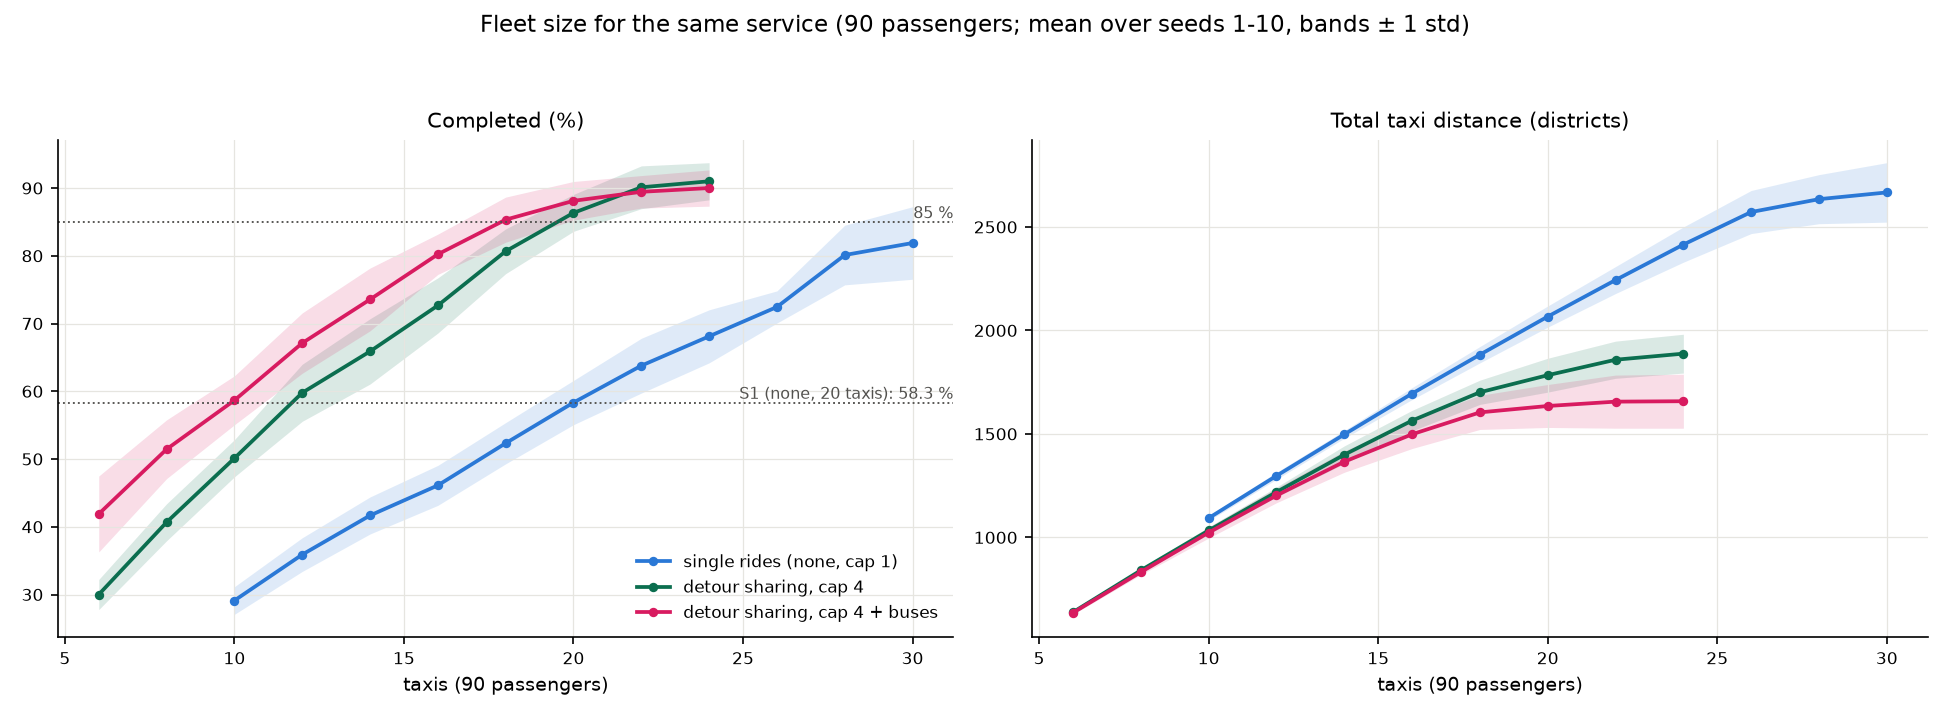
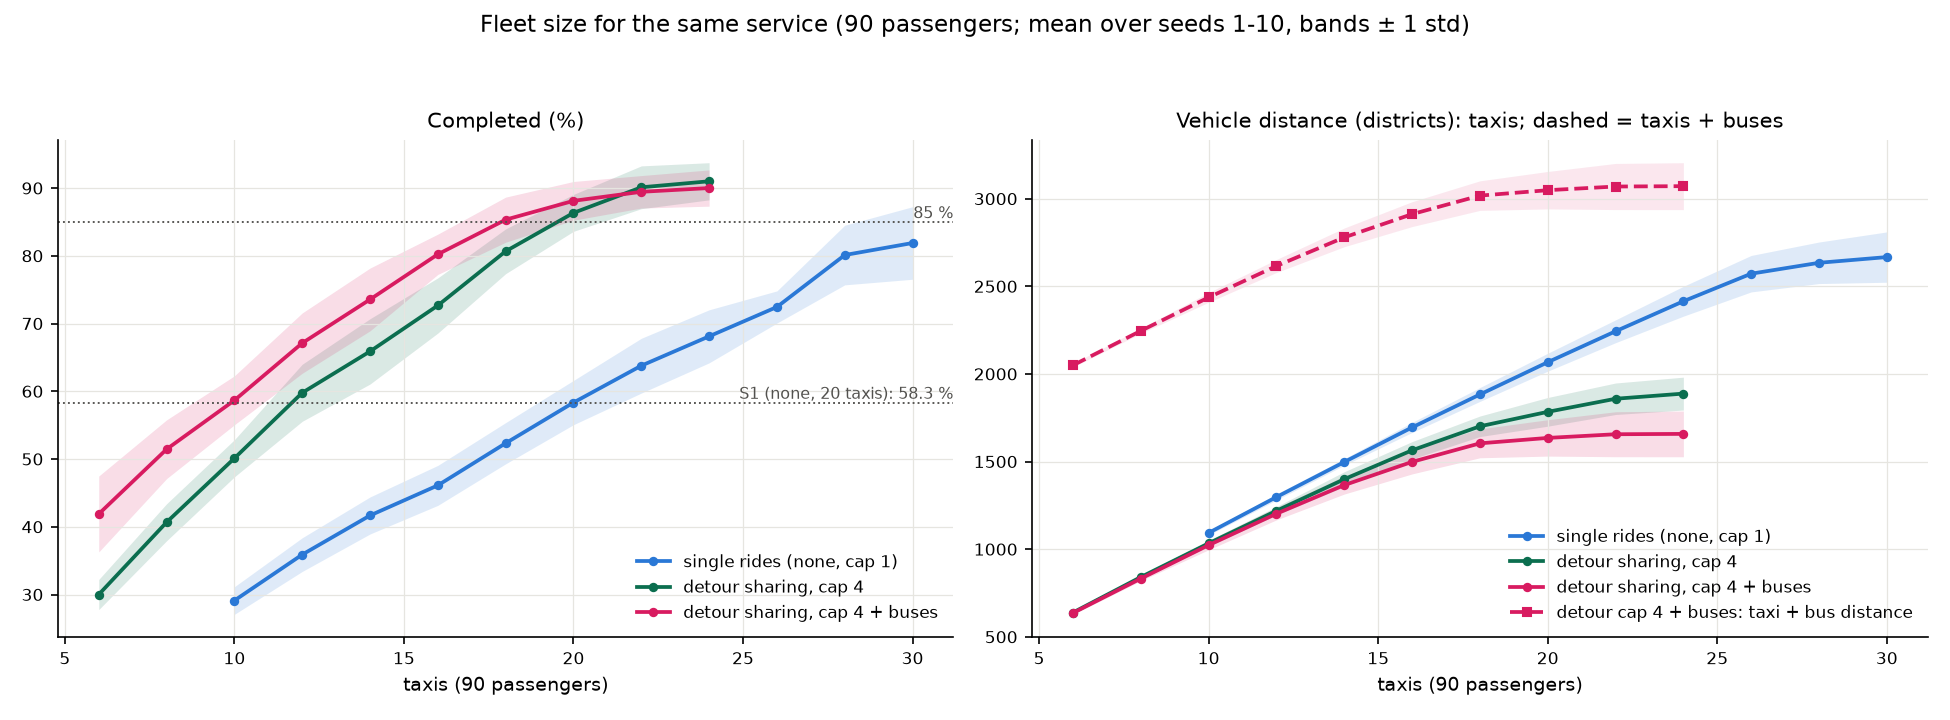
Count bus distance in the driving comparisons
plot_analysis.py and fleet_equivalence.csv add bus_distance, vehicle distance (taxi + bus, summed per run) and vehicle distance per completed passenger; fleet.png shows taxi + bus distance of the bus mode as a dashed line. findings.md, README and REPORT_OUTLINE.md now give taxi, bus and total distance for every bus claim (fleet equivalence, S6, S7, S12): with buses the total vehicle distance is higher than single rides at this demand. The -41 % saving of detour sharing without buses is kept. No model change, no re-run.

diff --git a/plot_analysis.py b/plot_analysis.py
@@ -5,11 +5,19 @@ Usage (after running the two experiment sets):
     python run_experiments.py --config experiments_fleet.csv --out results_fleet --no-charts
     python plot_analysis.py
 
-Reads results_sweep/summary.csv, results_fleet/summary.csv and (for the S1
-reference level) results/summary.csv. Writes to results_analysis/:
+Reads results_sweep/summary.csv, results_fleet/summary.csv and runs.csv, and
+(for the S1 reference level) results/summary.csv. Writes to results_analysis/:
     sweep.png              load sweep (x = passengers), mean line + std band
-    fleet.png              fleet sizes (x = taxis), with S1 and 85 % lines
-    fleet_equivalence.csv  per mode: smallest fleet reaching the S1 level / 85 %
+    fleet.png              fleet sizes (x = taxis), with S1 and 85 % lines; the
+                           distance panel adds taxi + bus distance (dashed)
+    fleet_equivalence.csv  per mode: smallest fleet reaching the S1 level / 85 %,
+                           with taxi, bus and total vehicle distance
+
+Vehicle distance = taxi distance + bus distance, summed per run before taking
+mean and std. Buses drive their full lines whatever their load, so with buses
+on, the total vehicle distance is much larger than the taxi distance. A bus
+district is not equivalent to a car district (bigger vehicle), so the total is
+a count of vehicle movements, not a pollution measure.
 """
 
 from pathlib import Path
@@ -63,6 +71,20 @@ def line_panel(ax, groups, x, metric, xlabel):
     ax.tick_params(labelsize=8)
 
 
+def with_vehicle_distance(summary, runs):
+    """Add vehicle_distance (taxi + bus per run) and vehicle distance per
+    completed passenger, mean and std (ddof=0, as in summary.csv)."""
+    runs = runs.assign(vehicle_distance=runs["total_distance"] + runs["bus_distance"])
+    runs = runs.assign(vehicle_distance_per_completed=(runs["vehicle_distance"]
+                                                       / runs["completed"]))
+    grouped = runs.groupby("config_id", sort=False)
+    stats = pd.DataFrame(index=grouped.size().index)
+    for metric in ("vehicle_distance", "vehicle_distance_per_completed"):
+        stats[f"{metric}_mean"] = grouped[metric].mean()
+        stats[f"{metric}_std"] = grouped[metric].std(ddof=0)
+    return summary.merge(stats, left_on="config_id", right_index=True)
+
+
 def s1_level():
     s = pd.read_csv("results/summary.csv").set_index("config_id")
     return s.loc["S1", "completed_pct_mean"]
@@ -91,6 +113,19 @@ def plot_fleet(fleet, reference):
         axes[0].text(axes[0].get_xlim()[1], level, f" {text}", fontsize=7.5,
                      va="bottom", ha="right", color="#52514e")
     line_panel(axes[1], groups, "num_taxis", "total_distance", "taxis (90 passengers)")
+    # With buses, also the distance driven by all vehicles (taxis + buses).
+    bus_rows = groups[("detour", 4, True)]
+    mean = bus_rows["vehicle_distance_mean"]
+    std = bus_rows["vehicle_distance_std"]
+    color = MODES[("detour", 4, True)][1]
+    axes[1].plot(bus_rows["num_taxis"], mean, "--", color=color, linewidth=1.8,
+                 marker="s", markersize=3.5,
+                 label="detour cap 4 + buses: taxi + bus distance")
+    axes[1].fill_between(bus_rows["num_taxis"], mean - std, mean + std, color=color,
+                         alpha=0.10, linewidth=0)
+    axes[1].set_title("Vehicle distance (districts): taxis; dashed = taxis + buses",
+                      fontsize=10)
+    axes[1].legend(fontsize=8, frameon=False, loc="lower right")
     axes[0].legend(fontsize=8, frameon=False, loc="lower right")
     fig.suptitle("Fleet size for the same service (90 passengers; mean over seeds "
                  "1-10, bands ± 1 std)", fontsize=11)
@@ -113,8 +148,10 @@ def fleet_equivalence(fleet, reference):
             else:
                 best = hit.iloc[0]
                 row["num_taxis"] = int(best["num_taxis"])
-                for metric in ("completed_pct", "total_distance", "empty_distance_pct",
-                               "distance_per_completed"):
+                for metric in ("completed_pct", "total_distance", "bus_distance",
+                               "vehicle_distance", "empty_distance_pct",
+                               "distance_per_completed",
+                               "vehicle_distance_per_completed"):
                     row[f"{metric}_mean"] = best[f"{metric}_mean"]
                     row[f"{metric}_std"] = best[f"{metric}_std"]
             rows.append(row)
@@ -124,7 +161,8 @@ def fleet_equivalence(fleet, reference):
 def main():
     OUT.mkdir(exist_ok=True)
     sweep = pd.read_csv("results_sweep/summary.csv")
-    fleet = pd.read_csv("results_fleet/summary.csv")
+    fleet = with_vehicle_distance(pd.read_csv("results_fleet/summary.csv"),
+                                  pd.read_csv("results_fleet/runs.csv"))
     reference = s1_level()
     plot_sweep(sweep)
     plot_fleet(fleet, reference)

diff --git a/results_analysis/findings.md b/results_analysis/findings.md
@@ -1,9 +1,17 @@
 # Findings (30x30 base, seeds 1-10, mean ± std)
 
 Sources: `results_sweep/summary.csv` (load sweep: 20 taxis, 30-180 passengers),
-`results_fleet/summary.csv` (90 passengers, varying fleet),
-`results_analysis/fleet_equivalence.csv`, and `results/summary.csv` (S1-S12).
+`results_fleet/` (90 passengers, varying fleet),
+`results_analysis/fleet_equivalence.csv`, and `results/` (S1-S12).
 Charts: `results_analysis/sweep.png`, `results_analysis/fleet.png`.
+
+Distances are counted in districts driven. "Taxi distance" covers taxis only;
+"vehicle distance" = taxi distance + bus distance, summed per run. Buses drive
+their full lines whatever their load (1413.6 ± 5.5 districts per run in every
+bus scenario without congestion), so whenever buses are on, the vehicle
+distance is much larger than the taxi distance. A bus is a bigger vehicle than
+a taxi, so a bus district is not directly comparable to a car district for
+pollution or road space; the totals below count vehicle movements only.
 
 - **Sharing helps most at medium-to-high load.** With 20 taxis, detour sharing
   (capacity 4) completes 86.3 ± 2.7 % of 90 passengers against 58.3 ± 3.3 %
@@ -18,20 +26,25 @@ Charts: `results_analysis/sweep.png`, `results_analysis/fleet.png`.
   2.7 % vs 84.0 ± 3.1 % at 90 passengers, 55.3 ± 3.1 % vs 48.7 ± 2.5 % at 180.
   With 1-minute stops, every extra rider costs the others time, so the
   10-minute extra-delay limit blocks most third and fourth riders.
-- **Sharing saves taxis for the same service.** Reaching the S1 level (58.3 %)
-  takes 20 taxis without sharing, 12 with detour sharing (59.8 ± 4.2 %), and 10
-  with detour sharing plus buses (58.7 ± 3.6 %): 8 and 10 fewer taxis (40 % and
-  50 %).
-- **...and removes a large part of the driving.** At that same service level,
-  total taxi distance falls from 2066.9 ± 51.1 districts (none, 20 taxis) to
-  1219.1 ± 23.9 (detour, 12 taxis; -41 %) and 1023.2 ± 26.3 (detour + buses,
-  10 taxis; -50.5 %). The empty share drops from 45.3 ± 2.6 % to 24.0 ± 3.3 % and
-  25.4 ± 3.5 %.
+- **Sharing saves taxis and driving for the same service.** Reaching the S1
+  level (58.3 %) takes 20 taxis without sharing and 12 with detour sharing
+  (59.8 ± 4.2 %): 8 fewer taxis (-40 %). Taxi distance falls from 2066.9 ± 51.1
+  to 1219.1 ± 23.9 districts (-41.0 %) and the empty share from 45.3 ± 2.6 % to
+  24.0 ± 3.3 %. There are no buses here, so this is also the whole vehicle
+  distance.
+- **With buses, total driving is higher, not lower.** Sharing plus buses needs
+  only 10 taxis for the S1 level (58.7 ± 3.6 %, 10 fewer than single rides),
+  and the taxis drive 1023.2 ± 26.3 districts.
+  But the buses add 1413.6 ± 5.5, so the vehicle distance is 2436.8 ± 27.7:
+  18 % more than single rides (2066.9 ± 51.1) and twice that of sharing
+  without buses (1219.1 ± 23.9). At this demand the buses drive their full
+  lines while carrying only about 0.13 passengers per district.
 - **85 % service is out of reach without sharing.** Single rides reach only
-  81.9 ± 5.4 % with 30 taxis (2666.8 districts driven). Detour sharing reaches
-  85 % with 20 taxis (86.3 ± 2.7 %, 1783.7 ± 81.8 districts, empty share 20.5 ±
-  1.2 %), and with buses 18 taxis suffice (85.3 ± 3.3 %, 1604.0 ± 82.3
-  districts, 22.0 ± 3.0 %).
+  81.9 ± 5.4 % with 30 taxis (2666.8 ± 143.6 districts driven). Detour sharing
+  reaches 85 % with 20 taxis (86.3 ± 2.7 %, 1783.7 ± 81.8 districts, empty share
+  20.5 ± 1.2 %). With buses 18 taxis suffice (85.3 ± 3.3 %), and they drive
+  1604.0 ± 82.3 districts, but with the buses' 1413.6 ± 5.5 the vehicle distance
+  is 3017.6 ± 84.4: the highest of the three at this service level.
 - **Waiting vs in-vehicle trade-off.** At 90 passengers, sharing halves the wait
   (10.0 ± 1.4 vs 21.6 ± 3.3 min) and adds 3.9 min in the vehicle (24.8 ± 1.1
   vs 20.9 ± 0.9 min; extra delay 3.9 ± 0.2), so the total journey is 7.7 min
@@ -40,13 +53,17 @@ Charts: `results_analysis/sweep.png`, `results_analysis/fleet.png`.
 - **Walking to a neighbour district** (S5 vs S4) gives a small gain: completed
   88.7 ± 4.9 % vs 86.3 ± 2.7 %, wait 8.7 ± 1.1 vs 10.0 ± 1.4 min, empty share
   17.6 ± 1.9 % vs 20.5 ± 1.2 %.
-- **Buses relieve the taxis most when taxis do not share.** About 15.8 ± 3.7 % of
-  passengers take the bus. Without sharing, completion rises from 58.3 ± 3.3 %
-  (S1) to 67.7 ± 5.0 % (S7); with sharing only from 86.3 ± 2.7 % (S4) to 88.1 ±
-  2.9 % (S6), but taxi distance per completed passenger falls from 23.0 ± 0.8 to
-  20.6 ± 1.3. Bus riders wait longer than taxi riders (19.0 ± 2.6 vs 8.8 ± 1.5
-  min in S6, the walk to the stop included), and buses run mostly empty (0.13 ±
-  0.03 passengers per bus-district).
+- **Buses relieve the taxis, but add more driving than they save.** About
+  15.8 ± 3.7 % of passengers take the bus. Without sharing, completion rises
+  from 58.3 ± 3.3 % (S1) to 67.7 ± 5.0 % (S7); with sharing only from 86.3 ± 2.7 %
+  (S4) to 88.1 ± 2.9 % (S6). Taxi distance per completed passenger falls (S6:
+  20.6 ± 1.3 vs S4: 23.0 ± 0.8), but counting the buses, vehicle distance per
+  completed passenger rises: S6 drives 1634.9 ± 103.7 taxi + 1413.6 ± 5.5 bus =
+  3048.5 ± 106.8 districts (38.5 ± 1.6 per completed passenger, vs 23.0 ± 0.8 in
+  S4); S7 drives 2023.4 ± 76.9 + 1413.6 ± 5.5 = 3437.0 ± 77.7 (56.8 ± 4.6 per
+  completed, vs 39.5 ± 2.1 in S1). Buses carry 0.13 ± 0.03 passengers per
+  district. Bus riders also wait longer than taxi riders (19.0 ± 2.6 vs 8.8 ±
+  1.5 min in S6, the walk to the stop included).
 - **Congestion is the largest loss.** Completion falls from 86.3 ± 2.7 % to
   69.4 ± 5.0 % with sharing (S4 → S8) and from 58.3 ± 3.3 % to 40.8 ± 2.4 % without
   (S1 → S9); total journey time rises to 42.6 ± 2.5 and 49.6 ± 4.1 min.
@@ -57,5 +74,9 @@ Charts: `results_analysis/sweep.png`, `results_analysis/fleet.png`.
   completion falls to 81.0 ± 3.9 % and acceptable trips to 78.1 ± 3.1 % (S10 vs
   86.3 ± 2.7 % in S4).
 - **All four features together** (S12) complete 75.8 ± 5.4 %, between S4 and the
-  congestion-only S8, with the lowest taxi distance per completed passenger of
-  S1-S12 (19.9 ± 1.7 districts) and an empty share of 17.0 ± 2.3 %.
+  congestion-only S8. Its taxis drive the least per completed passenger of
+  S1-S12 (19.9 ± 1.7 districts; empty share 17.0 ± 2.3 %), but adding the buses
+  (1217.9 ± 4.6 districts, fewer than elsewhere because congestion slows them)
+  gives 1350.9 ± 87.6 + 1217.9 ± 4.6 = 2568.8 ± 89.8 vehicle districts, i.e.
+  37.8 ± 2.8 per completed passenger, against 25.7 ± 1.9 for S8 (sharing with
+  congestion, no buses).

diff --git a/README.md b/README.md
@@ -441,6 +441,26 @@ By mode, in the bus scenarios (completed % / wait / total time, minutes):
 
 Bus passengers' waiting time includes the walk to the stop; their total time
 includes both walks.
+
+**Driving with buses.** The "Taxi dist./completed" column counts taxis only.
+Buses also drive: their full lines, whatever their load. Counting both
+(vehicle distance = taxi + bus, per run, in districts):
+
+| Id | Taxi distance | Bus distance | Vehicle distance | Vehicle dist./completed |
+|---|---|---|---|---|
+| S1 (no buses) | 2066.9 ± 51.1 | 0 | 2066.9 ± 51.1 | 39.5 ± 2.1 |
+| S4 (no buses) | 1783.7 ± 81.8 | 0 | 1783.7 ± 81.8 | 23.0 ± 0.8 |
+| S6 | 1634.9 ± 103.7 | 1413.6 ± 5.5 | 3048.5 ± 106.8 | 38.5 ± 1.6 |
+| S7 | 2023.4 ± 76.9 | 1413.6 ± 5.5 | 3437.0 ± 77.7 | 56.8 ± 4.6 |
+| S12 | 1350.9 ± 87.6 | 1217.9 ± 4.6 | 2568.8 ± 89.8 | 37.8 ± 2.8 |
+
+So the buses lower the *taxi* distance but raise the *total* vehicle distance
+at this demand: they carry only about 0.13 passengers per district driven. (In
+S12 congestion slows the buses, so they cover fewer districts.) A bus is a
+bigger vehicle than a taxi, so bus districts are not directly comparable to
+car districts for pollution or road space; the totals count vehicle movements
+only.
+
 These numbers are copied from the run of the current code; re-run
 `python run_experiments.py` after any change and update the table from
 `results/summary.csv`.
@@ -458,13 +478,26 @@ These numbers are copied from the run of the current code; re-run
 `plot_analysis.py` draws `results_analysis/sweep.png` and `fleet.png` (mean
 line, ± 1 std band, one line per mode) and writes
 `results_analysis/fleet_equivalence.csv`: per mode, the smallest fleet whose
-mean completed % reaches the S1 level (58.3 %) and 85 %:
+mean completed % reaches the S1 level (58.3 %) and 85 %, with taxi distance,
+bus distance and their sum (vehicle distance, per run). In `fleet.png` the
+dashed line is the taxi + bus distance of the bus mode.
 
-| Mode | Fleet for S1 level | Taxi distance | Empty % | Fleet for 85 % | Taxi distance | Empty % |
-|---|---|---|---|---|---|---|
-| none, cap 1 | 20 (58.3 ± 3.3 %) | 2066.9 ± 51.1 | 45.3 ± 2.6 | not reached (81.9 ± 5.4 % with 30) | – | – |
-| detour, cap 4 | 12 (59.8 ± 4.2 %) | 1219.1 ± 23.9 | 24.0 ± 3.3 | 20 (86.3 ± 2.7 %) | 1783.7 ± 81.8 | 20.5 ± 1.2 |
-| detour, cap 4 + buses | 10 (58.7 ± 3.6 %) | 1023.2 ± 26.3 | 25.4 ± 3.5 | 18 (85.3 ± 3.3 %) | 1604.0 ± 82.3 | 22.0 ± 3.0 |
+| Mode | Target | Taxis | Completed % | Taxi distance | Bus distance | Vehicle distance | Empty taxi % |
+|---|---|---|---|---|---|---|---|
+| none, cap 1 | S1 level | 20 | 58.3 ± 3.3 | 2066.9 ± 51.1 | 0 | 2066.9 ± 51.1 | 45.3 ± 2.6 |
+| detour, cap 4 | S1 level | 12 | 59.8 ± 4.2 | 1219.1 ± 23.9 | 0 | 1219.1 ± 23.9 | 24.0 ± 3.3 |
+| detour, cap 4 + buses | S1 level | 10 | 58.7 ± 3.6 | 1023.2 ± 26.3 | 1413.6 ± 5.5 | 2436.8 ± 27.7 | 25.4 ± 3.5 |
+| none, cap 1 | 85 % | not reached (81.9 ± 5.4 % with 30 taxis, 2666.8 ± 143.6 districts) | | | | | |
+| detour, cap 4 | 85 % | 20 | 86.3 ± 2.7 | 1783.7 ± 81.8 | 0 | 1783.7 ± 81.8 | 20.5 ± 1.2 |
+| detour, cap 4 + buses | 85 % | 18 | 85.3 ± 3.3 | 1604.0 ± 82.3 | 1413.6 ± 5.5 | 3017.6 ± 84.4 | 22.0 ± 3.0 |
+
+Detour sharing without buses gives the same service as single rides with 8
+fewer taxis and 41.0 % less driving (1219.1 vs 2066.9 districts). Adding buses
+saves 2 more taxis and some taxi driving, but the buses' own 1413.6 districts
+make the total vehicle distance higher than single rides at this demand (2436.8
+vs 2066.9 districts, +18 %), because the buses drive their full lines while
+carrying about 0.13 passengers per district. Bus districts are not directly
+comparable to car districts (bigger vehicle).
 
 `results_analysis/findings.md` summarises what both sets and S1-S12 show
 (when sharing helps, taxis and driving saved, the waiting / in-vehicle
@@ -506,6 +539,9 @@ trade-off, and the effect of each feature).
   switches to a taxi, even when a taxi would be faster). On 30x30 about 16 %
   of passengers take the bus. Buses always drive their full lines, so bus
   occupancy stays low (about 0.13-0.14 passengers per bus-district).
+- **Buses add driving:** with buses on, the total vehicle distance (taxi + bus)
+  is higher than with single rides at this demand, although the taxi distance
+  is lower (section 8).
 - **Bus-km are not car-km:** `bus_distance` is reported separately from taxi
   distance. A bus district and a taxi district differ in emissions and road
   space, so the two cannot be added or compared directly as a pollution or

diff --git a/REPORT_OUTLINE.md b/REPORT_OUTLINE.md
@@ -85,7 +85,10 @@ Write the results only from `results/summary.csv`, `results/runs.csv` and
   - waiting time and total journey time (completed);
   - extra delay (taxi passengers);
   - taxi distance per completed passenger and empty distance share;
-  - bus share, and per-mode completed % / times for S6, S7, S12;
+  - for the bus scenarios S6, S7, S12: bus share, per-mode completed % /
+    times, and taxi, bus and total vehicle distance (README §8 table);
+  - fleet equivalence (`results_analysis/fleet_equivalence.csv`): taxis needed
+    for the same service, with taxi, bus and vehicle distance;
   - acceptable % and abandoned % for S10-S12.
 - Report numbers only as produced by the runs; always give the completed % next
   to averages.
@@ -98,16 +101,21 @@ Write the results only from `results/summary.csv`, `results/runs.csv` and
 - Walking: small gains in completion and wait (S5 vs S4).
 - Buses: about 16 % of passengers take the bus. That frees taxis: without
   sharing (S7 vs S1) completion rises clearly; with sharing (S6 vs S4) the
-  gain is small, and taxi distance per completed passenger falls. Bus riders
-  wait longer (the walk to the stop counts) and bus occupancy stays low
-  (~0.13): fixed full-length lines. Discuss the mode-choice rule.
+  gain is small. Taxi distance per completed passenger falls, but the buses
+  drive their full lines (~1414 districts per run) carrying ~0.13 passengers
+  per district, so the total vehicle distance is *higher* with buses at this
+  demand (S6: 3048.5 vs S4: 1783.7 districts). Be explicit that a bus district
+  is not a car district. Bus riders wait longer (the walk to the stop counts).
+  Discuss the mode-choice rule and the fixed lines.
 - Congestion: the largest loss (S8, S9); sharing keeps more of its benefit than
   single rides.
 - Patience: abandonment frees taxis, so completion can rise without sharing
   (S11 vs S1) while acceptable % falls with sharing (S10 vs S4); explain via
   `acceptable_pct`.
 - Traffic and pollution through proxies only: taxi distance per passenger,
-  empty share, occupancy; bus-km are not car-km. Make no claims about measured
+  empty share, occupancy, and total vehicle distance (taxi + bus); bus-km are
+  not car-km. Sharing without buses cuts driving by about 41 % for the same
+  service; buses do not, at this demand. Make no claims about measured
   pollution or congestion.
 
 ## 9. Limitations and future work (~0.5 page)
